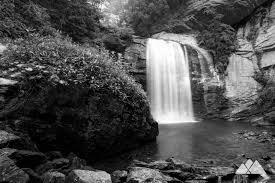
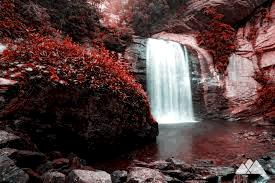
Work on the hideImage class. There is a mixup in the RGB values turning the image red. Kinda interesting effect to exploregit status

diff --git a/src/com/projects/HideImage.java b/src/com/projects/HideImage.java
@@ -1,9 +1,13 @@
 package com.projects;
-import java.awt.image.BufferedImage;
+import java.awt.image.*;
 import java.io.*;
 import java.awt.*;
 import java.nio.Buffer;
 import javax.imageio.*;
+
+import static java.awt.image.BufferedImage.TYPE_BYTE_BINARY;
+import static java.awt.image.BufferedImage.TYPE_INT_ARGB;
+import static java.awt.image.BufferedImage.TYPE_INT_RGB;
 
 
 public class HideImage{
@@ -12,20 +16,16 @@ public class HideImage{
     File hideFile;
     BufferedImage baseImg;
     BufferedImage hideImg;
+   // BufferedImage EncryptedImage = new BufferedImage(baseImg.getWidth(), baseImg.getHeight(), TYPE_INT_ARGB);
 
-    public HideImage(File BaseImage){
-        try {
-            this.baseFile = BaseImage;
-            this.baseImg = ImageIO.read(BaseImage);
-        }catch (Exception e){
-            System.out.print("heloo");
-        }
-    }
     //Constuctor
     public HideImage(File BaseFile, File hideFile){
         try {
             this.baseImg = ImageIO.read(BaseFile);
             this.hideImg = ImageIO.read(hideFile);
+            if(hideImg.getWidth() > baseImg.getWidth() || hideImg.getHeight() > baseImg.getHeight()){
+                this.hideImg = hideImg.getSubimage(0,0, baseImg.getWidth(),baseImg.getHeight());
+            }
             this.baseFile = BaseFile;
             this.hideFile = hideFile;
         }catch (Exception e){
@@ -55,23 +55,43 @@ public class HideImage{
     }
 
 
-    public BufferedImage EncryptImage(){
-        BufferedImage encryptedImage = null;
-        for( int i = 0; i < this.baseImg.getWidth(); i++){
-            for(int j = 0; j < this.baseImg.getHeight(); j++){
+    public void EncryptImage(){
+//        BufferedImage encryptedImage = null;
+        try {
+            for (int i = 0; i < this.baseImg.getWidth(); i++) {
+                for (int j = 0; j < this.baseImg.getHeight(); j++) {
 //             getColor(baseImg, i, j)
-               Color base = getColor(baseImg, i, j);
-                int baseRed = base.getRed();
-                int baseGreen = base.getGreen();
-                int baseBlue = base.getBlue();
-                System.out.println(baseRed);
+                    Color base = getColor(baseImg, i, j);
+                    int baseRed =  base.getRed();
+                    int baseGreen =  base.getGreen();
+                    int baseBlue =  base.getBlue();
 
+                    //hide-- is storing the RGB values of the image you want to hide.
+                    Color hide = getColor(hideImg, i, j);
+                    int hideRed = hide.getRed();
+                    int hideGreen = hide.getGreen();
+                    int hideBlue = hide.getBlue();
+
+                    // en-- is the encrypted variable
+                    int enRed = combSigNumbers(baseRed, hideRed);
+                    int enGreen = combSigNumbers(baseGreen, baseBlue);
+                    int enBlue = combSigNumbers(baseBlue, hideBlue);
+
+                    Color enRGB = new Color(enRed, enGreen, enBlue);
+                    hideImg.setRGB(i, j, enRGB.getRGB());
+                }
             }
-        }
-        return encryptedImage;
+        }catch(Exception e){}
+//        return encryptedImage;
     }
 
-
-
+    public int combSigNumbers(int num1, int num2){
+        num1 = (int) (Math.floor(num1/16));
+        num2 = (int) ((Math.floor(num2/16)) * 16);
+        return num1 + num2;
+    }
+    public void WriteEncryptImg() throws IOException{
+            ImageIO.write(hideImg, "jpg", new File("C:\\Users\\mark\\IdeaProjects\\PixelImage\\WaterFall\\waterfall2.jpg"));
+    }
 
 }

diff --git a/src/com/projects/Main.java b/src/com/projects/Main.java
@@ -11,17 +11,16 @@ public class Main {
         File imgFile = new File("C:\\Users\\mark\\IdeaProjects\\PixelImage\\WaterFall\\waterfall.jpg");
         File imgFile1 = new File("C:\\Users\\mark\\IdeaProjects\\PixelImage\\WaterFall\\Punishersymbol.jpg");
         File imgFile2 = new File("C:\\Users\\mark\\IdeaProjects\\PixelImage\\WaterFall\\waterfall2.jpg");
-        GreyScale.gryScale(imgFile);
+//        GreyScale.gryScale(imgFile);
 
-//        matrixValues mat = new matrixValues(imgFile1);
-       // mat.printAlphaMatrix();
-//            mat.printDotMatrix();
 
-//        HideImage val = new HideImage(imgFile1, imgFile2);
-//        val.EncryptImage();
+        HideImage val = new HideImage(imgFile, imgFile);
+        val.EncryptImage();
+        val.WriteEncryptImg();
 
-//        BufferedImage img2 = ImageIO.read(imgFile);
-//        System.out.println(img2.getHeight());
-//        System.out.println(img2.getWidth());
+/*              Prints out the dot matrix of the punisher symbol file.
+        matrixValues mat = new matrixValues(imgFile1);
+        mat.printDotMatrix();
+*/
     }
 }
